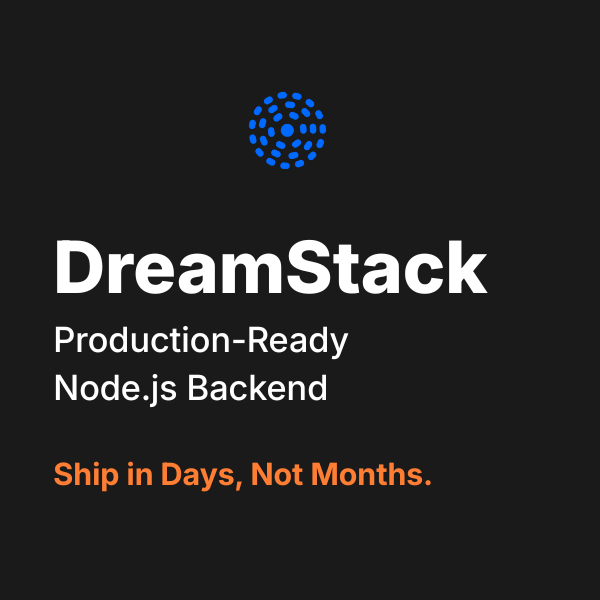
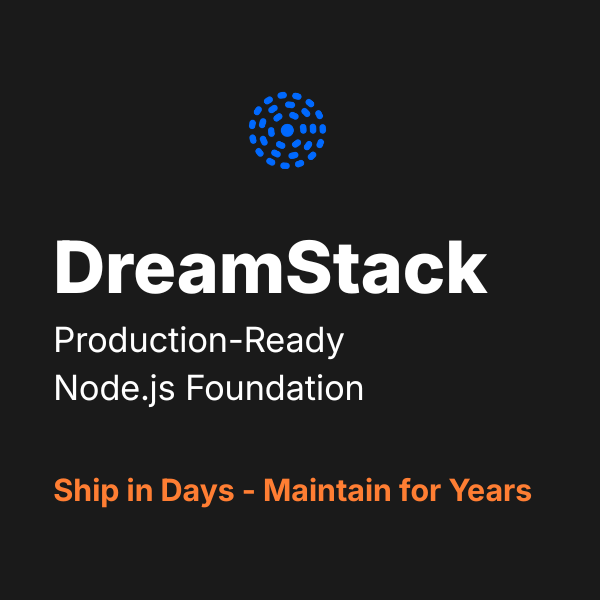
fix: update landing page copy (dreamstack) + assets

Changed region(s): [[0.09, 0.75, 0.9, 0.84], [0.09, 0.54, 0.6, 0.6], [0.09, 0.63, 0.63, 0.69]]

diff --git a/dreamstack/index.html b/dreamstack/index.html
@@ -4,26 +4,23 @@
     <meta charset="UTF-8" />
     <meta name="viewport" content="width=device-width, initial-scale=1.0" />
     <link rel="icon" type="image/png" href="../assets/logo.png" />
-    <title>DreamStack - Production-Ready Node.js Backend Template</title>
-    <meta
-      name="description"
-      content="Ship faster with DreamStack - a battle-tested Node.js backend template with 508 tests, dual framework support, and production-grade features. Built in Abuja, competing globally."
-    />
+    <title>DreamStack | The Clean Architecture Node.js Backend Foundation</title>
+    <meta name="description" content="Stop building your MVP/SaaS on technical debt. DreamStack is a production-hardened Node.js backend foundation with 508 tests, dual framework support, and Clean Architecture. Built for scale." />
 
     <!-- Open Graph / Social Media -->
     <meta property="og:type" content="website" />
     <meta property="og:url" content="https://dreamverse.ng/dreamstack" />
     <meta
       property="og:title"
-      content="DreamStack - Production-Ready Node.js Backend Template"
+      content="DreamStack | The Clean Architecture Production-Ready Node.js Backend Template"
     />
     <meta
       property="og:description"
-      content="508 tests. Dual framework support (Express ↔ Hono). Built from Abuja, competing globally. Launch price: $197-297."
+      content="The backend foundation for high-scale SaaS/MVP. Built by a production specialist, competing globally."
     />
     <meta
       property="og:image"
-      content="https://dreamverse.ng/dreamstack/og-image.jpg"
+      content="https://dreamverse.ng/assets/logo.png"
     />
 
     <!-- Twitter -->
@@ -31,15 +28,15 @@
     <meta property="twitter:url" content="https://dreamverse.ng/dreamstack" />
     <meta
       property="twitter:title"
-      content="DreamStack - Production-Ready Node.js Backend Template"
+      content="DreamStack | The Clean Architecture Production-Ready Node.js Backend Template"
     />
     <meta
       property="twitter:description"
-      content="508 tests. Dual framework support (Express ↔ Hono). Built from Abuja, competing globally."
+      content="The backend foundation for high-scale SaaS/MVP. Built by a production specialist, competing globally."
     />
     <meta
       property="twitter:image"
-      content="https://dreamverse.ng/dreamstack/twitter-card.jpg"
+      content="https://dreamverse.ng/assets/dreamstack-cover.png"
     />
 
     <!-- Tailwind CSS (built) -->
@@ -305,7 +302,7 @@
                   loop
                   muted
                   playsinline
-                  poster="/assets/dreamstack-gumroad-cover.png"
+                  poster="/assets/dreamstack-cover.png"
                 >
                   <source src="/assets/demo.mp4" type="video/mp4" />
                   <!-- Fallback / Placeholder if video missing -->
@@ -683,7 +680,7 @@
           </h2>
           <p class="text-lg text-slate-600">
             Stop reinventing the wheel. DreamStack includes battle-tested
-            implementations of every feature your SaaS needs.
+            implementations of every feature modern backends need.
           </p>
         </div>
 
@@ -908,7 +905,7 @@
                 <td
                   class="px-6 py-4 text-center text-green-600 font-bold bg-blue-50/30"
                 >
-                  <div class="font-bold">✓ Dual Support</div>
+                  <div class="font-bold">✓ Framework Agnostic</div>
                   <div class="text-xs text-slate-600 font-normal mt-1">
                     Express ↔ Hono (Ultra-fast)
                   </div>
@@ -952,9 +949,9 @@
                 <td
                   class="px-6 py-4 text-center text-green-600 font-bold bg-blue-50/30"
                 >
-                  <div class="font-bold">✓ Multi-DB</div>
+                  <div class="font-bold">✓ Database Agnostic</div>
                   <div class="text-xs text-slate-600 font-normal mt-1">
-                    SQL + MongoDB
+                    SQL ↔ MongoDB
                   </div>
                 </td>
                 <td class="px-6 py-4 text-center text-slate-400">
@@ -1086,7 +1083,7 @@
                 Built by a Backend Specialist, for Backend Developers
               </h2>
               <p class="text-slate-600 font-medium mb-3">
-                Abubakar Usman (Kata) · Software Engineer & Founder, Dreamverse ·
+                Abubakar Usman (Kata) · Software Engineer & Founder, DreamVerse ·
                 Abuja, Nigeria 🇳🇬
               </p>
               <div class="flex flex-wrap gap-3">
@@ -1143,7 +1140,7 @@
               production systems for
               <span class="font-semibold text-slate-900">Linkpane</span>,
               <span class="font-semibold text-slate-900">DeerNigeria</span>, and
-              other platforms serving hundreds to thousands of users.
+              other platforms serving thousands of active users.
             </p>
 
             <p class="text-slate-600 leading-relaxed mb-4">
@@ -1165,7 +1162,7 @@
             <p class="text-slate-600 leading-relaxed mb-4">
               So I built
               <span class="font-semibold text-slate-900">DreamStack</span>—the
-              template I needed when I started. Not a tutorial project. Not a
+              foundation I needed when I started. Not a tutorial project. Not a
               "ship fast and pray" starter kit. A production-grade foundation
               with
               <span class="font-semibold text-slate-900"
@@ -1208,8 +1205,8 @@
                 <div class="text-sm text-slate-600">Lead Backend Dev</div>
               </div>
               <div>
-                <div class="text-2xl font-bold text-brand-blue mb-1">1000s</div>
-                <div class="text-sm text-slate-600">Users Served</div>
+                <div class="text-2xl font-bold text-brand-blue mb-1">Prod-Scale</div>
+                <div class="text-sm text-slate-600">Real Users Served</div>
               </div>
               <div>
                 <div class="text-2xl font-bold text-brand-blue mb-1">
@@ -1221,35 +1218,19 @@
           </div>
 
           <!-- Trust Badge -->
-          <div class="mt-8 bg-slate-50 rounded-xl p-6 border border-slate-200">
+<div class="mt-8 bg-slate-50 rounded-xl p-6 border border-slate-200">
             <div class="flex items-start gap-4">
-              <div
-                class="w-10 h-10 bg-brand-blue/10 rounded-lg flex items-center justify-center shrink-0"
-              >
-                <svg
-                  class="w-5 h-5 text-brand-blue"
-                  fill="none"
-                  stroke="currentColor"
-                  viewBox="0 0 24 24"
-                >
-                  <path
-                    stroke-linecap="round"
-                    stroke-linejoin="round"
-                    stroke-width="2"
-                    d="M9 12l2 2 4-4m5.618-4.016A11.955 11.955 0 0112 2.944a11.955 11.955 0 01-8.618 3.04A12.02 12.02 0 003 9c0 5.591 3.824 10.29 9 11.622 5.176-1.332 9-6.03 9-11.622 0-1.042-.133-2.052-.382-3.016z"
-                  />
+              <div class="w-10 h-10 bg-brand-blue/10 rounded-lg flex items-center justify-center shrink-0">
+                <svg class="w-5 h-5 text-brand-blue" fill="none" stroke="currentColor" viewBox="0 0 24 24">
+                  <path stroke-linecap="round" stroke-linejoin="round" stroke-width="2" d="M9 12l2 2 4-4m5.618-4.016A11.955 11.955 0 0112 2.944a11.955 11.955 0 01-8.618 3.04A12.02 12.02 0 003 9c0 5.591 3.824 10.29 9 11.622 5.176-1.332 9-6.03 9-11.622 0-1.042-.133-2.052-.382-3.016z" />
                 </svg>
               </div>
               <div>
                 <div class="font-semibold text-slate-900 mb-1">
-                  Why Trust This Template?
+                  Why Trust This Foundation?
                 </div>
                 <div class="text-sm text-slate-600 leading-relaxed">
-                  Every line of code in DreamStack has been tested in production
-                  environments serving real users. The architecture patterns
-                  aren't theoretical, they're proven across multiple SaaS
-                  platforms. The 508 tests ensure nothing breaks when you extend
-                  it. This is what actually works.
+                  Every pattern in DreamStack has been hardened in production environments serving real users. This isn't theoretical architecture, it’s a proven system distilled from building and scaling real-world SaaS platforms. With 508 automated tests protecting your core, you can extend, tweak, and deploy with the confidence that your foundation won't crack.
                 </div>
               </div>
             </div>
@@ -1262,14 +1243,18 @@
     <section id="pricing" class="py-24 px-4 sm:px-6 lg:px-8 bg-slate-100">
       <div class="max-w-7xl mx-auto">
         <div class="text-center max-w-3xl mx-auto mb-16">
-          <h2
-            class="text-3xl md:text-4xl font-bold text-slate-900 mb-4 tracking-tight"
-          >
-            $197 vs 400+ Hours of Development
+          <h2 class="text-3xl md:text-4xl font-bold text-slate-900 mb-4 tracking-tight">
+            Stop building your MVP on technical debt.
           </h2>
-          <p class="text-lg text-slate-600">
-            costs $40,000-60,000 in senior dev time
+          <p class="text-lg text-slate-600 mb-8">
+            Start with a foundation that scales to your first 100k users.
           </p>
+          
+          <div class="inline-flex flex-col md:flex-row items-center justify-center gap-2 md:gap-4 px-6 py-3 bg-white rounded-2xl shadow-sm border border-slate-200">
+            <span class="text-slate-900 font-bold">$197 Launch Price</span>
+            <span class="hidden md:block text-slate-300">|</span>
+            <span class="text-slate-500 text-sm">Saves 400+ hours of senior dev time ($40k+)</span>
+          </div>
         </div>
 
         <div class="grid md:grid-cols-2 gap-8 max-w-4xl mx-auto items-start">
@@ -1376,7 +1361,7 @@
                     d="M5 13l4 4L19 7"
                   />
                 </svg>
-                <span class="text-sm text-slate-600">Email support</span>
+                <span class="text-sm text-slate-600">Email + Discord support</span>
               </li>
             </ul>
             <a
@@ -1481,7 +1466,7 @@
                     d="M5 13l4 4L19 7"
                   />
                 </svg>
-                <span class="text-sm text-slate-600">Email support</span>
+                <span class="text-sm text-slate-600">Priority email + Discord support</span>
               </li>
             </ul>
             <a
@@ -1714,9 +1699,7 @@
               </span>
             </summary>
             <p class="mt-4 text-slate-600 leading-relaxed">
-              All plans include email support. The Standard plan includes
-              priority support and access to the private Discord community.
-              Typical response time: 24 hours on weekdays.
+              All plans include access to our Discord community, featuring exclusive channels reserved for verified buyers. Early Bird users receive standard email support, while Standard plan members enjoy priority email assistance. Expect a response within 24 hours on weekdays.
             </p>
           </details>
 
